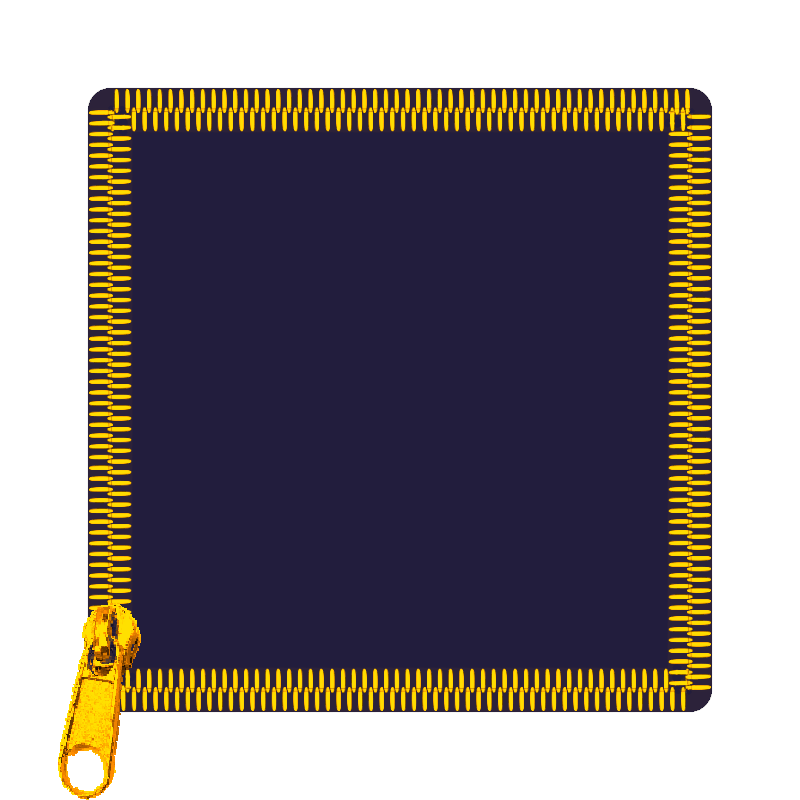
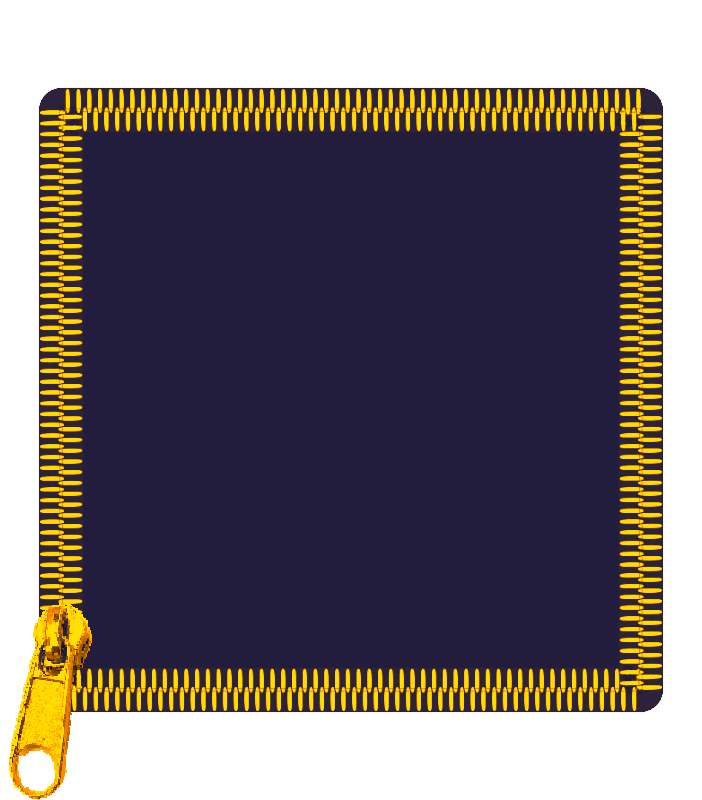
fix horizontal scroll
caused by negative space in img borders, I figured out how to do without it!

Changed region(s): [[0.0, 0.0938, 0.9573, 1.0]]

diff --git a/shrines/esclabbabies.html b/shrines/esclabbabies.html
@@ -120,8 +120,10 @@
 
 		#crt{
 			position: relative;
-			border: 150px solid transparent;
-			border-image: url(crt.png) 93 stretch;
+            max-width: 81%;
+			border-style: solid;
+            border-image: url(crt1.png) 90 40;
+            border-width: 150px 70px;
 			margin-left: auto;
 			margin-right: auto;
 			margin-top: -50px;
@@ -168,21 +170,28 @@
 		}
 
 		@media only screen and (max-width: 700px) {
-			#crt {
-				margin-left: -50px;
-				margin-right: -50px;
-				border: 100px solid transparent;
-				border-image: url(crt.png) 93 stretch;
-			}
+			#crt{
+                max-width: 100%;
+                border-style: solid;
+                border-image: url(crt1.png) 90 40;
+                border-width: 150px 70px;
+                margin-left: auto;
+                margin-right: auto;
+            }
 
 		}
 
 		@media only screen and (max-width: 500px) {
-			#crt {
-				border: 75px solid transparent;
-				border-image: url(crt.png) 93 stretch;
-				margin-top: -30px;
-			}
+            #crt{
+                max-width: 100%;
+                border-style: solid;
+                border-image: url(crt1.png) 90 40;
+                border-width: 100px 40px;
+                margin-left: auto;
+                margin-right: auto;
+                margin-top: -30px;
+                clear: both;
+            }
 			#crtcontent img{
 				position: static;
 				height: 110px;

diff --git a/shrines/banette.html b/shrines/banette.html
@@ -22,7 +22,7 @@
                 background-color: #131025;
             }
             #container {
-                border-image: url("/img/banette/zipper.png") 196 fill round;
+                border-image: url("/img/banette/zipper.png") 196 190 fill round;
                 border-width: 100px;
                 border-style: solid;
                 border-color: transparent;
@@ -128,8 +128,8 @@
                 }
                 main{ padding:0px; }
                 #container { 
-                    border-width: 67px;
-                    margin: -21px; 
+                    border-width: 47px;
+                    border-image-width: 63px;
                 }
             }
         </style>
